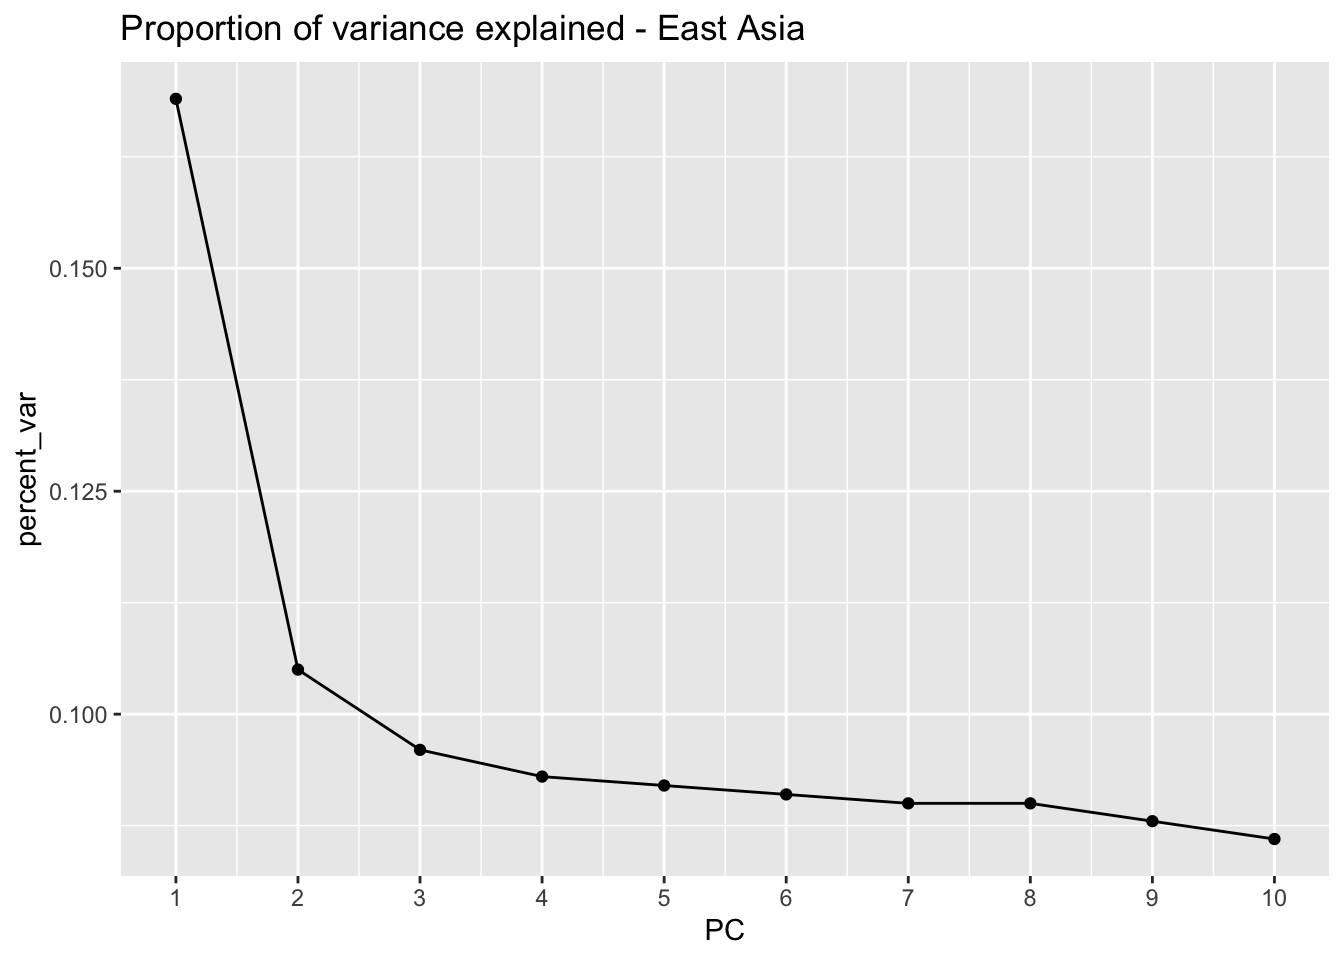
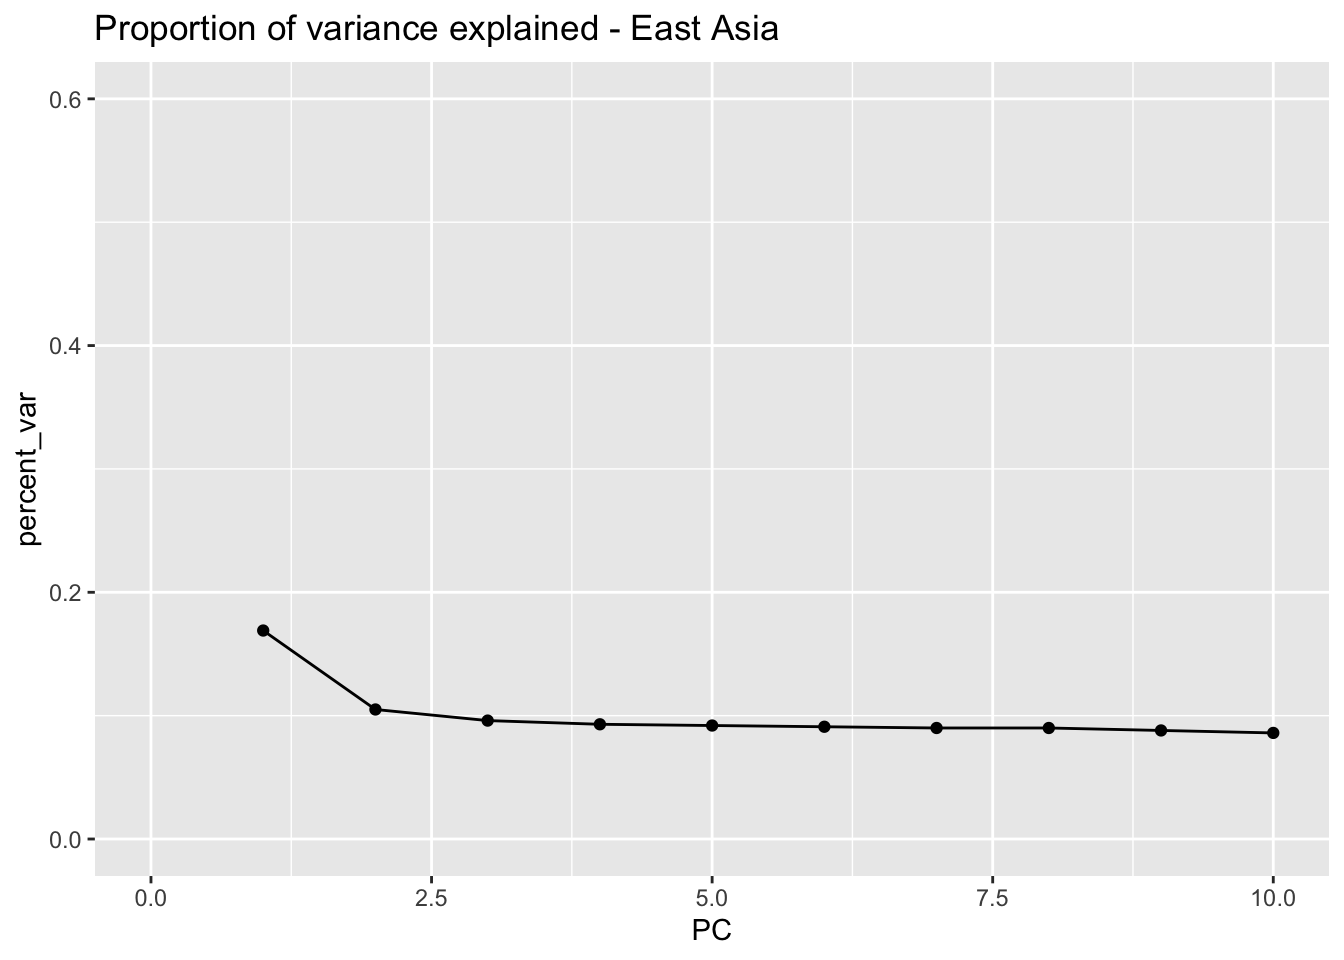
Build site.

diff --git a/docs/PCA.html b/docs/PCA.html
@@ -504,16 +504,16 @@ This reproducible <a href="http://rmarkdown.rstudio.com">R Markdown</a> analysis
 <div class="panel panel-default">
 <div class="panel-heading">
 <p class="panel-title">
-<a data-toggle="collapse" data-parent="#workflowr-checks" href="#strongRepositoryversionstrongahrefhttpsgithubcomrheapragGWASQCtreeb8acd269a40ea841f1d71faf29ac32be3c9be874targetblankb8acd26a"> <span class="glyphicon glyphicon-ok text-success" aria-hidden="true"></span> <strong>Repository version:</strong> <a href="https://github.com/rheaprag/GWAS_QC/tree/b8acd269a40ea841f1d71faf29ac32be3c9be874" target="_blank">b8acd26</a> </a>
+<a data-toggle="collapse" data-parent="#workflowr-checks" href="#strongRepositoryversionstrongahrefhttpsgithubcomrheapragGWASQCtreef8fbfe45a40eda90f404d836844394e36b5b3dbctargetblankf8fbfe4a"> <span class="glyphicon glyphicon-ok text-success" aria-hidden="true"></span> <strong>Repository version:</strong> <a href="https://github.com/rheaprag/GWAS_QC/tree/f8fbfe45a40eda90f404d836844394e36b5b3dbc" target="_blank">f8fbfe4</a> </a>
 </p>
 </div>
[2 lines of base64/hex data omitted]
 <div class="panel-body">
 <p>
 Great! You are using Git for version control. Tracking code development and connecting the code version to the results is critical for reproducibility.
 </p>
 <p>
-The results in this page were generated with repository version <a href="https://github.com/rheaprag/GWAS_QC/tree/b8acd269a40ea841f1d71faf29ac32be3c9be874" target="_blank">b8acd26</a>. See the <em>Past versions</em> tab to see a history of the changes made to the R Markdown and HTML files.
+The results in this page were generated with repository version <a href="https://github.com/rheaprag/GWAS_QC/tree/f8fbfe45a40eda90f404d836844394e36b5b3dbc" target="_blank">f8fbfe4</a>. See the <em>Past versions</em> tab to see a history of the changes made to the R Markdown and HTML files.
 </p>
 <p>
 Note that you need to be careful to ensure that all relevant files for the analysis have been committed to Git prior to generating the results (you can use <code>wflow_publish</code> or <code>wflow_git_commit</code>). workflowr only checks the R Markdown file, but you know if there are other scripts or data files that it depends on. Below is the status of the Git repository when the results were generated:
@@ -524,7 +524,6 @@ Ignored files:
     Ignored:    .RData
     Ignored:    .Rhistory
     Ignored:    .Rproj.user/
-    Ignored:    analysis/figure/
     Ignored:    data/.DS_Store
 
 Untracked files:
@@ -708,6 +707,40 @@ Message
 Rmd
 </td>
 <td>
+<a href="https://github.com/rheaprag/GWAS_QC/blob/f8fbfe45a40eda90f404d836844394e36b5b3dbc/analysis/PCA.Rmd" target="_blank">f8fbfe4</a>
+</td>
+<td>
+rheaprag
+</td>
+<td>
+2020-12-14
+</td>
+<td>
+Edit axes on graphs
+</td>
+</tr>
+<tr>
+<td>
+html
+</td>
+<td>
+<a href="https://rawcdn.githack.com/rheaprag/GWAS_QC/9355889c82d6d43aa8639010b79af996935c0ad3/docs/PCA.html" target="_blank">9355889</a>
+</td>
+<td>
+rheaprag
+</td>
+<td>
+2020-12-14
+</td>
+<td>
+Build site.
+</td>
+</tr>
+<tr>
+<td>
+Rmd
+</td>
+<td>
 <a href="https://github.com/rheaprag/GWAS_QC/blob/b8acd269a40ea841f1d71faf29ac32be3c9be874/analysis/PCA.Rmd" target="_blank">b8acd26</a>
 </td>
 <td>
@@ -835,7 +868,10 @@ Add PCA to file
 <pre><code>./plink --bfile hapmap3_01_5 --extract hapmap3_allpop.prune.in --make-bed --out hapmap3_allpop_pruned</code></pre>
 <p>These new bfiles can be used to run the PCA with the population (not separated out!)</p>
 <pre><code>./plink --bfile hapmap3_allpop_pruned --pca 10 --out hapmap3_pca</code></pre>
-<p>To plot the data: <img src="figure/PCA.Rmd/unnamed-chunk-1-1.png" width="672" style="display: block; margin: auto;" /></p>
+<p>To plot the data:</p>
+<pre><code>Scale for &#39;x&#39; is already present. Adding another scale for &#39;x&#39;, which will
+replace the existing scale.</code></pre>
+<p><img src="figure/PCA.Rmd/unnamed-chunk-1-1.png" width="672" style="display: block; margin: auto;" /></p>
 <p>
 <button type="button" class="btn btn-default btn-xs btn-workflowr btn-workflowr-fig" data-toggle="collapse" data-target="#fig-unnamed-chunk-1-1">
 Past versions of unnamed-chunk-1-1.png
@@ -879,7 +915,10 @@ rheaprag
 <h2>African</h2>
 <pre><code>./plink --bfile hapmap_African --extract hapmap3_02_1_African.prune.in --make-bed --out hapmap3_African_pruned</code></pre>
 <pre><code>./plink --bfile hapmap3_African_pruned --pca 10 --out hapmap3_African_pca</code></pre>
-<p>To plot the data: <img src="figure/PCA.Rmd/unnamed-chunk-2-1.png" width="672" style="display: block; margin: auto;" /></p>
+<p>To plot the data:</p>
+<pre><code>Scale for &#39;x&#39; is already present. Adding another scale for &#39;x&#39;, which will
+replace the existing scale.</code></pre>
+<p><img src="figure/PCA.Rmd/unnamed-chunk-2-1.png" width="672" style="display: block; margin: auto;" /></p>
 <p>
 <button type="button" class="btn btn-default btn-xs btn-workflowr btn-workflowr-fig" data-toggle="collapse" data-target="#fig-unnamed-chunk-2-1">
 Past versions of unnamed-chunk-2-1.png
@@ -922,7 +961,10 @@ rheaprag
 <h2>East Asia</h2>
 <pre><code>./plink --bfile hapmap_EastAsia --extract hapmap3_02_1_EastAsia.prune.in --make-bed --out hapmap3_EastAsia_pruned</code></pre>
 <pre><code>./plink --bfile hapmap3_EastAsia_pruned --pca 10 --out hapmap3_EastAsia_pca</code></pre>
-<p>To plot the data: <img src="figure/PCA.Rmd/unnamed-chunk-3-1.png" width="672" style="display: block; margin: auto;" /></p>
+<p>To plot the data:</p>
+<pre><code>Scale for &#39;x&#39; is already present. Adding another scale for &#39;x&#39;, which will
+replace the existing scale.</code></pre>
+<p><img src="figure/PCA.Rmd/unnamed-chunk-3-1.png" width="672" style="display: block; margin: auto;" /></p>
 <p>
 <button type="button" class="btn btn-default btn-xs btn-workflowr btn-workflowr-fig" data-toggle="collapse" data-target="#fig-unnamed-chunk-3-1">
 Past versions of unnamed-chunk-3-1.png
@@ -947,6 +989,17 @@ Date
 <tbody>
 <tr>
 <td>
+<a href="https://github.com/rheaprag/GWAS_QC/blob/9355889c82d6d43aa8639010b79af996935c0ad3/docs/figure/PCA.Rmd/unnamed-chunk-3-1.png" target="_blank">9355889</a>
+</td>
+<td>
+rheaprag
+</td>
+<td>
+2020-12-14
+</td>
+</tr>
+<tr>
+<td>
 <a href="https://github.com/rheaprag/GWAS_QC/blob/2c69b0d49af65be381a2bfd366a3cb83d964c74b/docs/figure/PCA.Rmd/unnamed-chunk-3-1.png" target="_blank">2c69b0d</a>
 </td>
 <td>
@@ -965,7 +1018,10 @@ rheaprag
 <h2>Utah</h2>
 <pre><code>./plink --bfile hapmap_Utah --extract hapmap3_02_1_Utah.prune.in --make-bed --out hapmap3_Utah_pruned</code></pre>
 <pre><code>./plink --bfile hapmap3_Utah_pruned --pca 10 --out hapmap3_Utah_pca</code></pre>
-<p>To plot the data: <img src="figure/PCA.Rmd/unnamed-chunk-4-1.png" width="672" style="display: block; margin: auto;" /></p>
+<p>To plot the data:</p>
+<pre><code>Scale for &#39;x&#39; is already present. Adding another scale for &#39;x&#39;, which will
+replace the existing scale.</code></pre>
+<p><img src="figure/PCA.Rmd/unnamed-chunk-4-1.png" width="672" style="display: block; margin: auto;" /></p>
 <p>
 <button type="button" class="btn btn-default btn-xs btn-workflowr btn-workflowr-fig" data-toggle="collapse" data-target="#fig-unnamed-chunk-4-1">
 Past versions of unnamed-chunk-4-1.png
@@ -990,6 +1046,17 @@ Date
 <tbody>
 <tr>
 <td>
+<a href="https://github.com/rheaprag/GWAS_QC/blob/9355889c82d6d43aa8639010b79af996935c0ad3/docs/figure/PCA.Rmd/unnamed-chunk-4-1.png" target="_blank">9355889</a>
+</td>
+<td>
+rheaprag
+</td>
+<td>
+2020-12-14
+</td>
+</tr>
+<tr>
+<td>
 <a href="https://github.com/rheaprag/GWAS_QC/blob/2c69b0d49af65be381a2bfd366a3cb83d964c74b/docs/figure/PCA.Rmd/unnamed-chunk-4-1.png" target="_blank">2c69b0d</a>
 </td>
 <td>
@@ -1008,7 +1075,10 @@ rheaprag
 <h2>Colorado Chinese</h2>
 <pre><code>./plink --bfile hapmap_ColoradoChinese --extract hapmap3_02_1_ColoradoChinese.prune.in --make-bed --out hapmap3_ColoradoChinese_pruned</code></pre>
 <pre><code>./plink --bfile hapmap3_ColoradoChinese_pruned --pca 10 --out hapmap3_ColoradoChinese_pca</code></pre>
-<p>To plot the data: <img src="figure/PCA.Rmd/unnamed-chunk-5-1.png" width="672" style="display: block; margin: auto;" /></p>
+<p>To plot the data:</p>
+<pre><code>Scale for &#39;x&#39; is already present. Adding another scale for &#39;x&#39;, which will
+replace the existing scale.</code></pre>
+<p><img src="figure/PCA.Rmd/unnamed-chunk-5-1.png" width="672" style="display: block; margin: auto;" /></p>
 <p>
 <button type="button" class="btn btn-default btn-xs btn-workflowr btn-workflowr-fig" data-toggle="collapse" data-target="#fig-unnamed-chunk-5-1">
 Past versions of unnamed-chunk-5-1.png
@@ -1033,6 +1103,17 @@ Date
 <tbody>
 <tr>
 <td>
+<a href="https://github.com/rheaprag/GWAS_QC/blob/9355889c82d6d43aa8639010b79af996935c0ad3/docs/figure/PCA.Rmd/unnamed-chunk-5-1.png" target="_blank">9355889</a>
+</td>
+<td>
+rheaprag
+</td>
+<td>
+2020-12-14
+</td>
+</tr>
+<tr>
+<td>
 <a href="https://github.com/rheaprag/GWAS_QC/blob/2c69b0d49af65be381a2bfd366a3cb83d964c74b/docs/figure/PCA.Rmd/unnamed-chunk-5-1.png" target="_blank">2c69b0d</a>
 </td>
 <td>
@@ -1051,7 +1132,10 @@ rheaprag
 <h2>Gujarati</h2>
 <pre><code>./plink --bfile hapmap_Gujarati --extract hapmap3_02_1_Gujarati.prune.in --make-bed --out hapmap3_Gujarati_pruned</code></pre>
 <pre><code>./plink --bfile hapmap3_Gujarati_pruned --pca 10 --out hapmap3_Gujarati_pca</code></pre>
-<p>To plot the data: <img src="figure/PCA.Rmd/unnamed-chunk-6-1.png" width="672" style="display: block; margin: auto;" /></p>
+<p>To plot the data:</p>
+<pre><code>Scale for &#39;x&#39; is already present. Adding another scale for &#39;x&#39;, which will
+replace the existing scale.</code></pre>
+<p><img src="figure/PCA.Rmd/unnamed-chunk-6-1.png" width="672" style="display: block; margin: auto;" /></p>
 <p>
 <button type="button" class="btn btn-default btn-xs btn-workflowr btn-workflowr-fig" data-toggle="collapse" data-target="#fig-unnamed-chunk-6-1">
 Past versions of unnamed-chunk-6-1.png
@@ -1076,6 +1160,17 @@ Date
 <tbody>
 <tr>
 <td>
+<a href="https://github.com/rheaprag/GWAS_QC/blob/9355889c82d6d43aa8639010b79af996935c0ad3/docs/figure/PCA.Rmd/unnamed-chunk-6-1.png" target="_blank">9355889</a>
+</td>
+<td>
+rheaprag
+</td>
+<td>
+2020-12-14
+</td>
+</tr>
+<tr>
+<td>
 <a href="https://github.com/rheaprag/GWAS_QC/blob/2c69b0d49af65be381a2bfd366a3cb83d964c74b/docs/figure/PCA.Rmd/unnamed-chunk-6-1.png" target="_blank">2c69b0d</a>
 </td>
 <td>
@@ -1094,7 +1189,10 @@ rheaprag
 <h2>Mexican</h2>
 <pre><code>./plink --bfile hapmap_Mexican --extract hapmap3_02_1_Mexican.prune.in --make-bed --out hapmap3_Mexican_pruned</code></pre>
 <pre><code>./plink --bfile hapmap3_Mexican_pruned --pca 10 --out hapmap3_Mexican_pca</code></pre>
-<p>To plot the data: <img src="figure/PCA.Rmd/unnamed-chunk-7-1.png" width="672" style="display: block; margin: auto;" /></p>
+<p>To plot the data:</p>
+<pre><code>Scale for &#39;x&#39; is already present. Adding another scale for &#39;x&#39;, which will
+replace the existing scale.</code></pre>
+<p><img src="figure/PCA.Rmd/unnamed-chunk-7-1.png" width="672" style="display: block; margin: auto;" /></p>
 <p>
 <button type="button" class="btn btn-default btn-xs btn-workflowr btn-workflowr-fig" data-toggle="collapse" data-target="#fig-unnamed-chunk-7-1">
 Past versions of unnamed-chunk-7-1.png
@@ -1119,6 +1217,17 @@ Date
 <tbody>
 <tr>
 <td>
+<a href="https://github.com/rheaprag/GWAS_QC/blob/9355889c82d6d43aa8639010b79af996935c0ad3/docs/figure/PCA.Rmd/unnamed-chunk-7-1.png" target="_blank">9355889</a>
+</td>
+<td>
+rheaprag
+</td>
+<td>
+2020-12-14
+</td>
+</tr>
+<tr>
+<td>
 <a href="https://github.com/rheaprag/GWAS_QC/blob/2c69b0d49af65be381a2bfd366a3cb83d964c74b/docs/figure/PCA.Rmd/unnamed-chunk-7-1.png" target="_blank">2c69b0d</a>
 </td>
 <td>
@@ -1137,7 +1246,47 @@ rheaprag
 <h2>Toscans</h2>
 <pre><code>./plink --bfile hapmap_Toscans --extract hapmap3_02_1_Toscans.prune.in --make-bed --out hapmap3_Toscans_pruned</code></pre>
 <pre><code>./plink --bfile hapmap3_Toscans_pruned --pca 10 --out hapmap3_Toscans_pca</code></pre>
-<p>To plot the data: <img src="figure/PCA.Rmd/unnamed-chunk-8-1.png" width="672" style="display: block; margin: auto;" /></p>
+<p>To plot the data:</p>
+<pre><code>Scale for &#39;x&#39; is already present. Adding another scale for &#39;x&#39;, which will
+replace the existing scale.</code></pre>
+<p><img src="figure/PCA.Rmd/unnamed-chunk-8-1.png" width="672" style="display: block; margin: auto;" /></p>
+<p>
+<button type="button" class="btn btn-default btn-xs btn-workflowr btn-workflowr-fig" data-toggle="collapse" data-target="#fig-unnamed-chunk-8-1">
+Past versions of unnamed-chunk-8-1.png
+</button>
+</p>
+<div id="fig-unnamed-chunk-8-1" class="collapse">
+<div class="table-responsive">
+<table class="table table-condensed table-hover">
+<thead>
+<tr>
+<th>
+Version
+</th>
+<th>
+Author
+</th>
+<th>
+Date
+</th>
+</tr>
+</thead>
+<tbody>
+<tr>
+<td>
+<a href="https://github.com/rheaprag/GWAS_QC/blob/9355889c82d6d43aa8639010b79af996935c0ad3/docs/figure/PCA.Rmd/unnamed-chunk-8-1.png" target="_blank">9355889</a>
+</td>
+<td>
+rheaprag
+</td>
+<td>
+2020-12-14
+</td>
+</tr>
+</tbody>
+</table>
+</div>
+</div>
 <br>
 <p>
 <button type="button" class="btn btn-default btn-workflowr btn-workflowr-sessioninfo" data-toggle="collapse" data-target="#workflowr-sessioninfo" style="display: block;">
